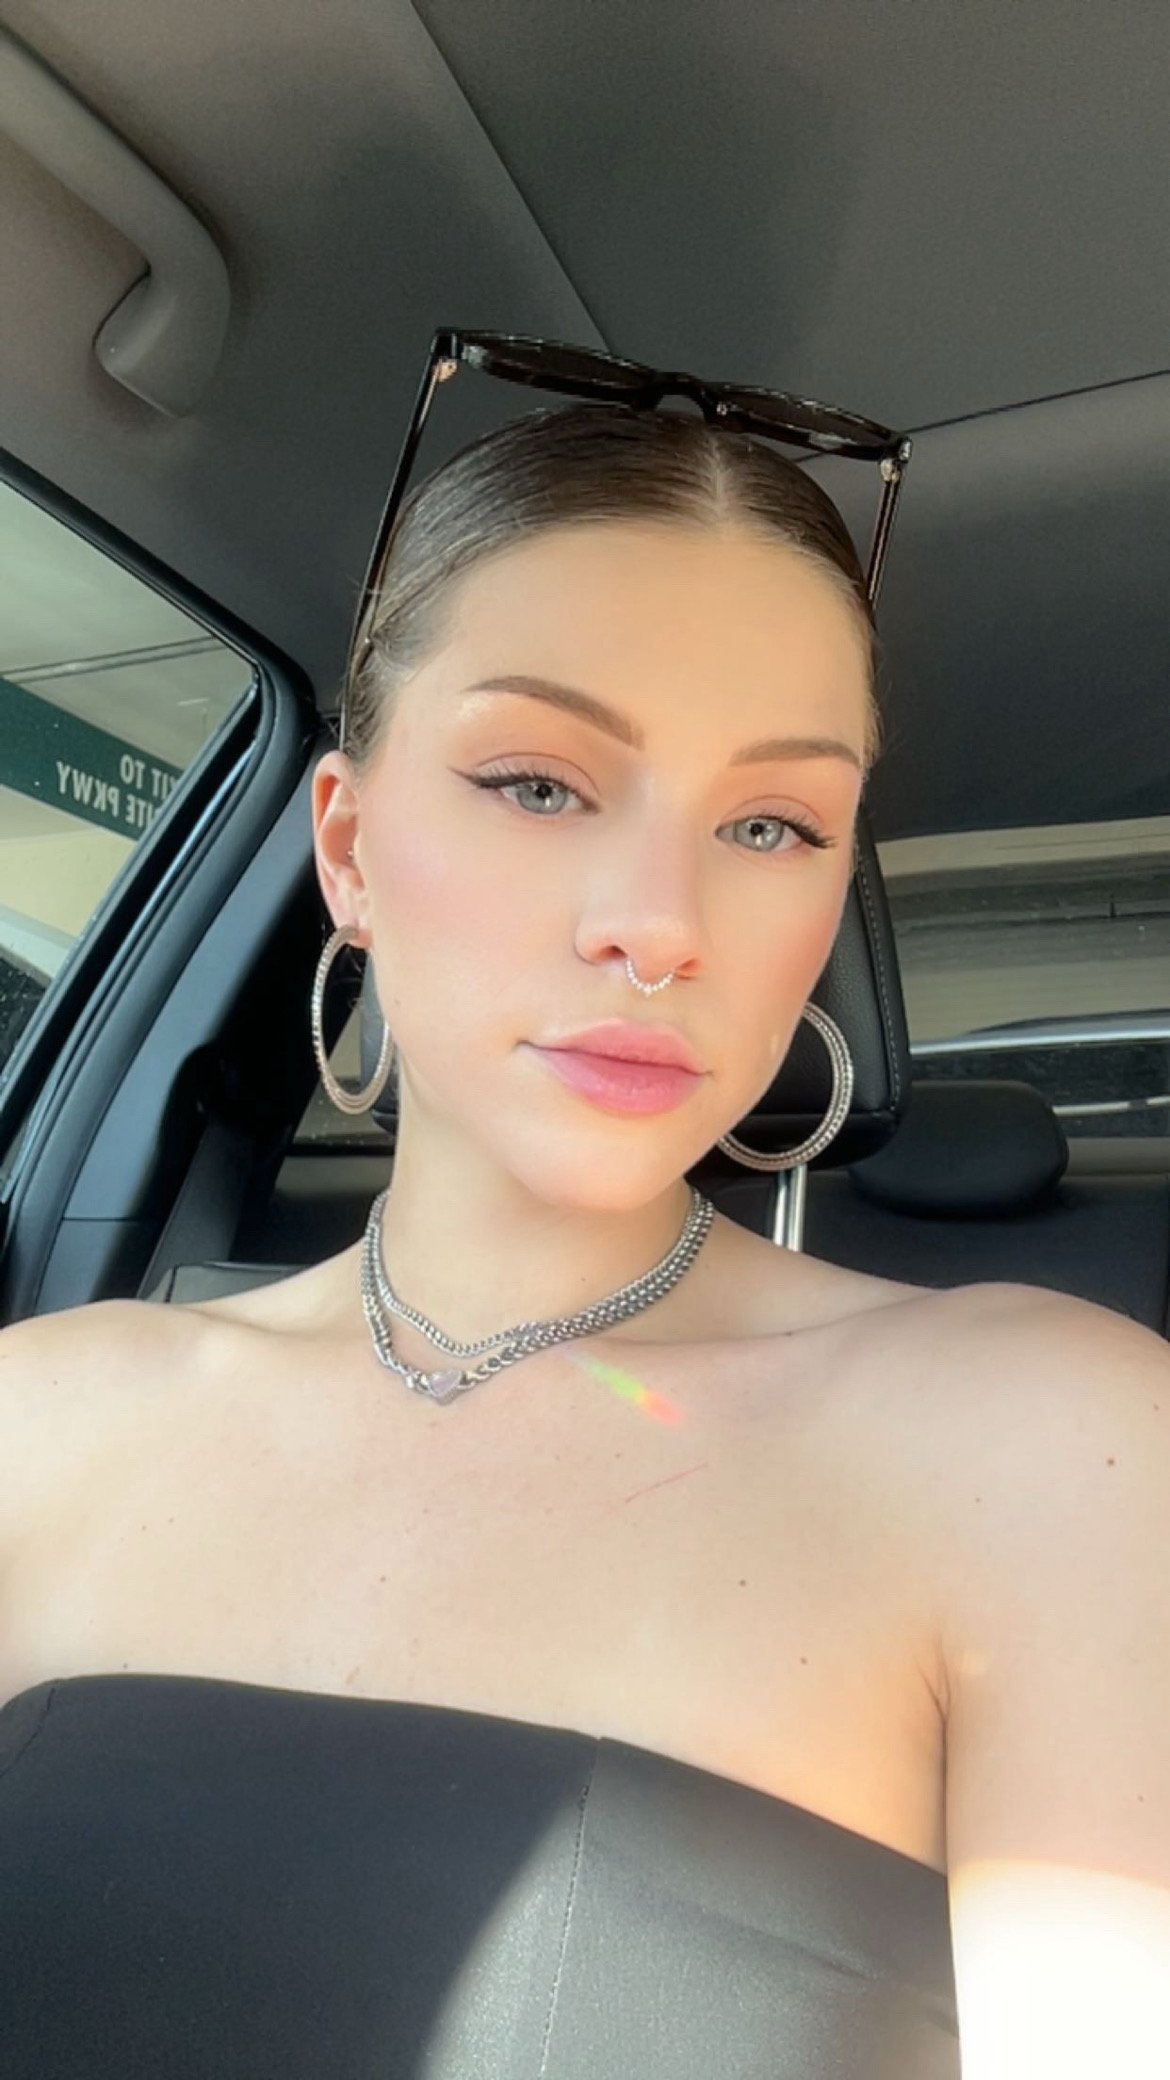
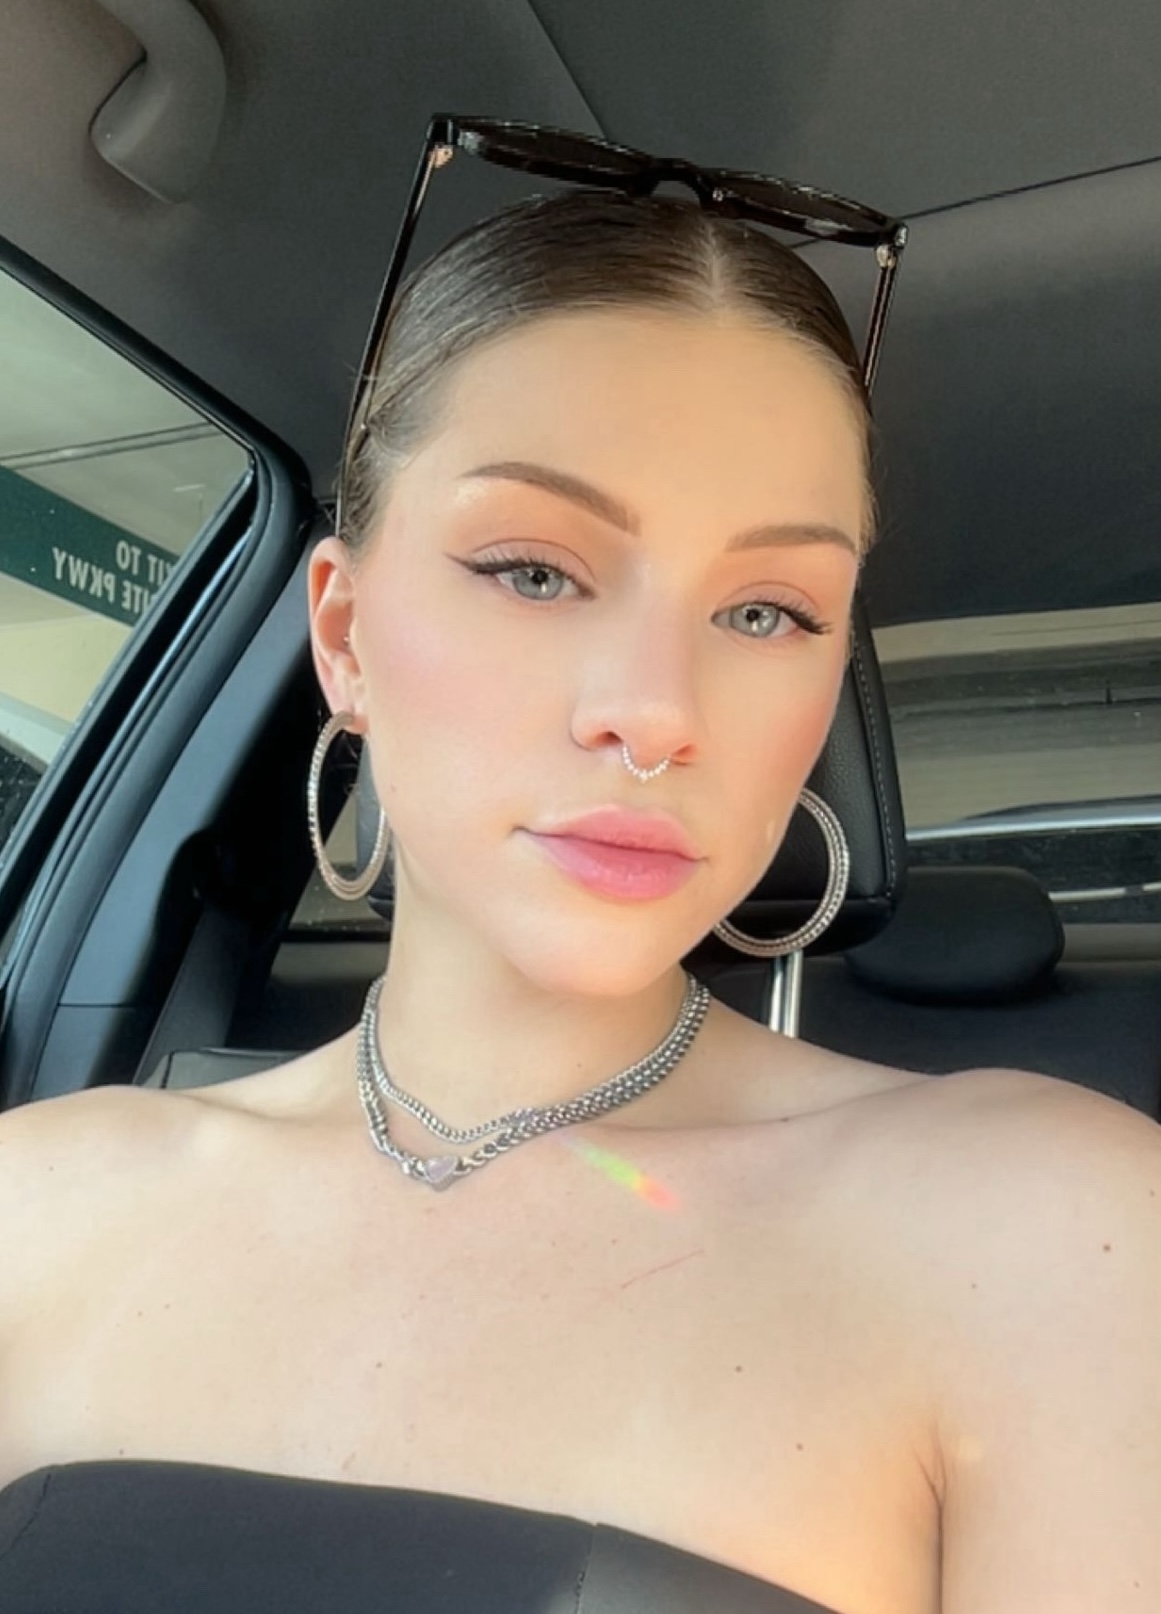
initial image formatting

diff --git a/index.html b/index.html
@@ -35,15 +35,16 @@
         </li>
       </ul>
     </nav>
-    <div>
+    <div class="flex flex-1">
       <div class="about-me__info row"></div>
       <div class="about-me__info--container">
         <figure class="about-me__picture--mask">
-          <img src="./eportfolio-project/self.jpg" alt="Picture of Me">
+          <img src="./self.jpg" class="about-me__picture" alt="Picture of Me">
         </figure>
         <h1 class="about-me__info--title">
           Hey! I'm <span class="text-purple">Kassidy Raymond ☺</span>
         </h1>
+        <p class="about-me__info--para">I'm a <strong class="text--purple">frontend software engineer</strong> with a strong passion for building user-friendly, engaging web experiences that possitively impact the world.</p>
       </div>
     </div>
   </section>

diff --git a/style.css b/style.css
@@ -21,6 +21,20 @@ li {
   list-style: none;
 }
 
+.flex {
+  display: flex;
+}
+
+.flex-1 {
+  flex: 1;
+}
+
+.row {
+  width: 100%;
+  max-width: 800px;
+  margin: 0 auto;
+}
+
 /* NAVIGATION BAR */
 
 nav {
@@ -62,4 +76,30 @@ nav {
   color: #773ca8;
   margin: 0 12px;
   font-weight: bold;
+}
+
+/* ABOUT ME */
+
+#about-me {
+  min-height: 100vh;
+  display: flex;
+  flex-direction: column;
+}
+
+.about-me__info--container {
+  display: flex;
+  flex-direction: column;
+  justify-content: center;
+  align-items: center;
+}
+
+.about-me__picture--mask {
+  width: 100px;
+  height: 100px;
+  border-radius: 50%;
+  overflow: hidden;
+}
+
+.about-me__picture {
+  width: 100%;
 }
